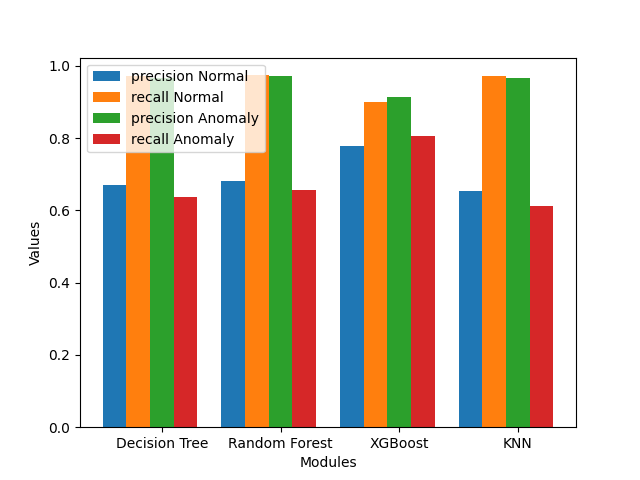
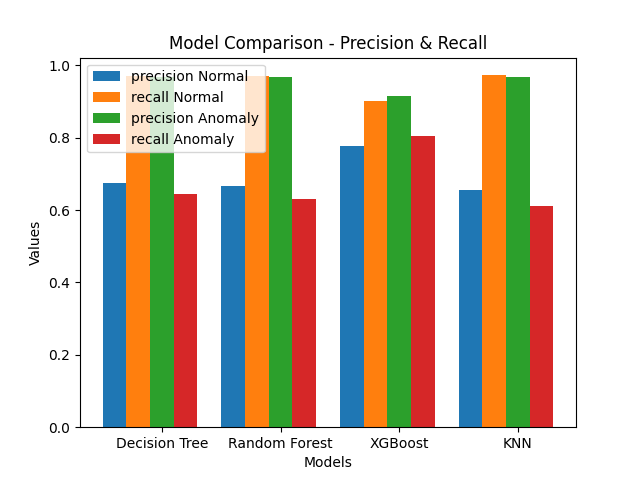
Adding information into visualizer

diff --git a/src/visualizer.py b/src/visualizer.py
@@ -3,7 +3,12 @@ import numpy as np
 import config
 import matplotlib.pyplot as plt
 
-def visualizerGenerateHeatMap(matrix):
+def visualizer_generate_heat_map(matrix):
+    """
+    Creates a Heat Map with the XGBClassifier matrix(the model with best recall for anomalies)
+    :param matrix: Results of the XGBClassifier
+    :return: a png file of the matrix
+    """
     heatmap(matrix, cmap=config.COLOR_MAP, annot=True, xticklabels=config.TICK_LABELS,
             yticklabels=config.TICK_LABELS, fmt=config.FORMAT, annot_kws=config.FONT_SIZE)
     plt.xlabel(config.HEATMAP_X_LABEL)
@@ -12,8 +17,12 @@ def visualizerGenerateHeatMap(matrix):
     plt.savefig(config.RESULT_FILE_PATH + config.MATRIX_IMAGE_FILE)
     plt.clf()
 
-def GenerateBarChart(report):
-
+def generate_bar_chart(report):
+    """
+    Creates the chart to compare the values of all the moduls in their precision and recall
+    :param report: A dict with the precision and recall of all models
+    :return: a png file of the created graph
+    """
     precision_normal = [report[m]['report'][config.NORMAL_INTEGER][config.PRECISION] for m in config.MODELS]
     recall_normal = [report[m]['report'][config.NORMAL_INTEGER][config.RECALL] for m in config.MODELS]
     precision_anomaly = [report[m]['report'][config.ANOMALY_INTEGER][config.PRECISION] for m in config.MODELS]
@@ -29,5 +38,6 @@ def GenerateBarChart(report):
     plt.ylabel(config.BAR_PLOT_Y_VALUES)
     plt.xticks(x, config.MODELS)
     plt.legend(config.BAR_PLOT_LEGEND)
+    plt.title(config.BAR_PLOT_TITLE)
 
     plt.savefig(config.RESULT_FILE_PATH + config.BAR_PLOT_FILE)

diff --git a/src/main.py b/src/main.py
@@ -2,7 +2,7 @@ import config
 from data_loader import get_open_file
 from ModelManager import get_trained_models
 from PreProcessor import encodeDataFrame
-from visualizer import visualizerGenerateHeatMap, GenerateBarChart
+from visualizer import visualizer_generate_heat_map, generate_bar_chart
 
 
 if __name__ == '__main__':
@@ -18,5 +18,5 @@ if __name__ == '__main__':
     results = get_trained_models(X_train, Y_train, X_test, Y_test)
     print(results)
 
-    visualizerGenerateHeatMap(results['XGBoost']['matrix'])
-    GenerateBarChart(results)
+    visualizer_generate_heat_map(results['XGBoost']['matrix'])
+    generate_bar_chart(results)

diff --git a/src/config.py b/src/config.py
@@ -44,6 +44,7 @@ ANOMALY_INTEGER = '1'
 RECALL = 'recall'
 PRECISION = 'precision'
 WIDTH = 0.2
+BAR_PLOT_TITLE = "Model Comparison - Precision & Recall"
 BAR_PLOT_X_LABEL = "Models"
 BAR_PLOT_Y_VALUES = "Values"
 BAR_PLOT_LEGEND = ["precision Normal", "recall Normal", "precision Anomaly", "recall Anomaly"]
